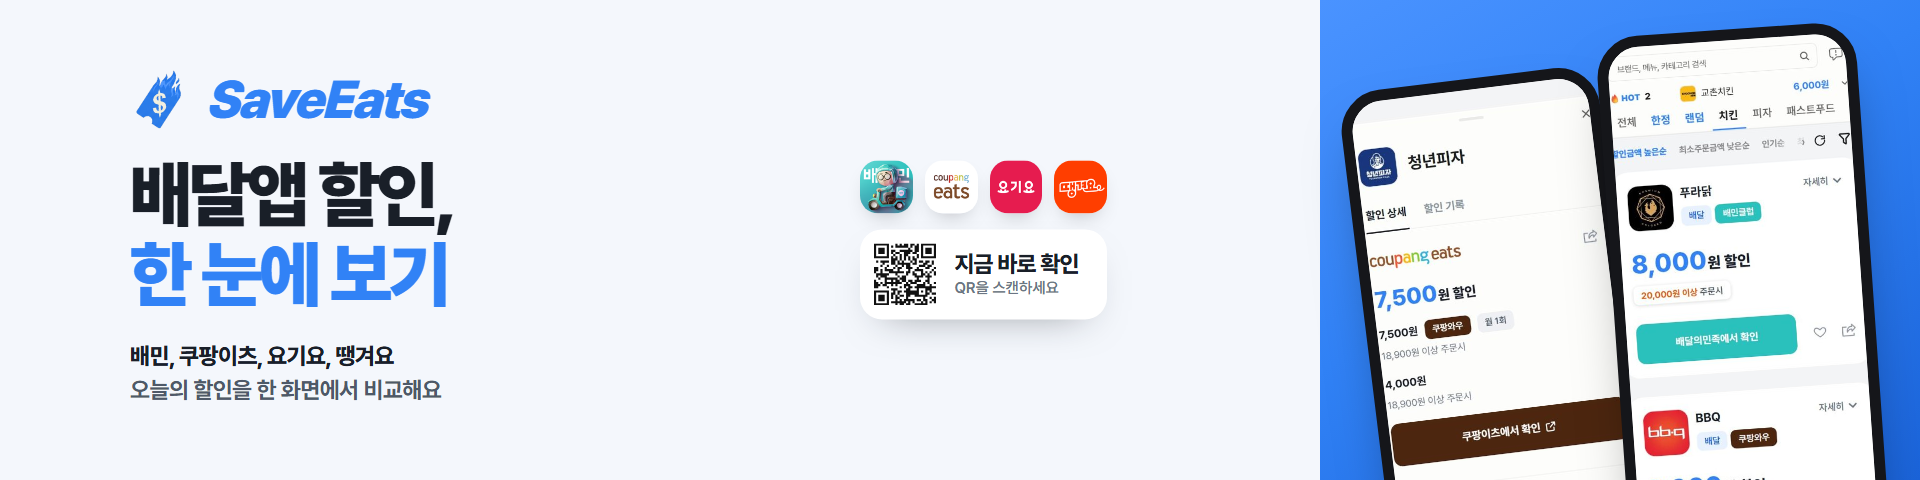
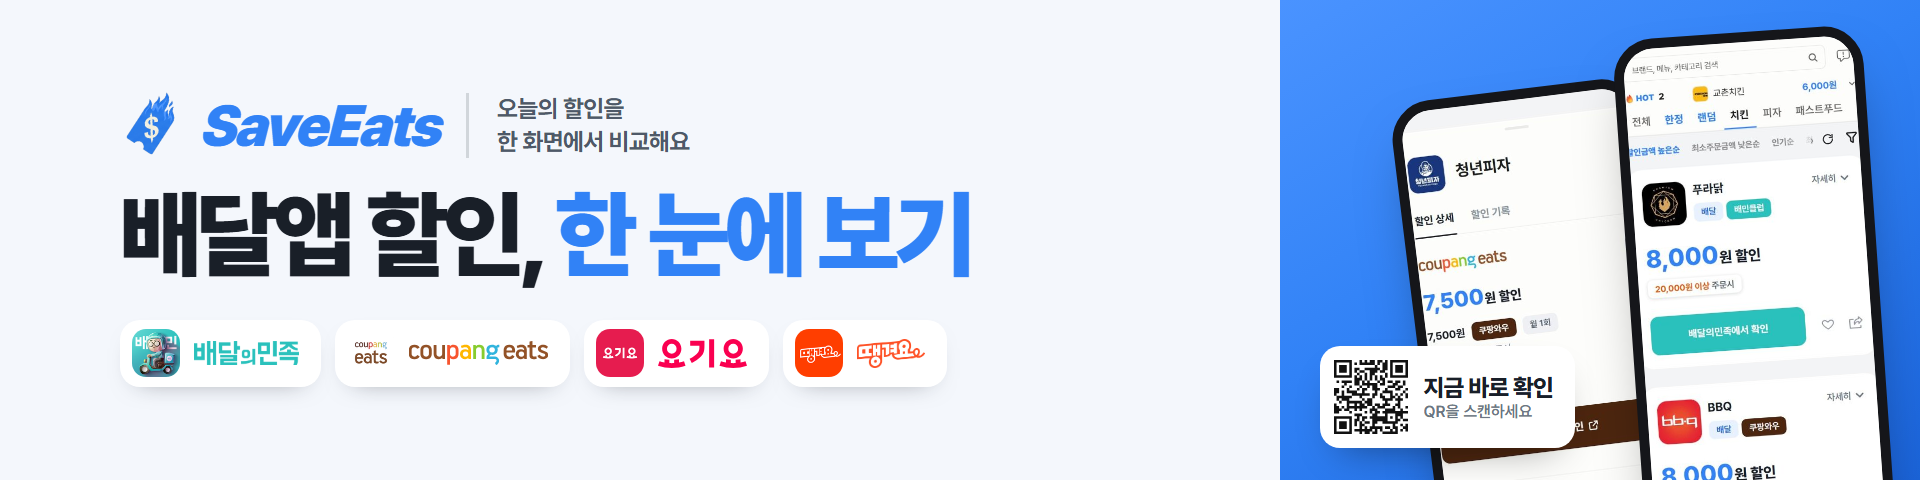
feat(web): 부스 배너 가로형 배치 정리, 앱 로고를 아이콘+서비스명 묶음으로 (#380)
한 줄 제목, 로고 옆 한 줄 설명, 앱 로고 넷(아이콘+이름, my-brands-v2 로고 재사용), QR은 파란 판 위로.

Claude-Session: https://claude.ai/code/session_01Ar5REjpbSup3DXLBGwWgCC

Changed region(s): [[0.6562, 0.0, 1.0, 1.0], [0.0625, 0.3125, 0.5938, 0.8438], [0.0625, 0.1562, 0.375, 0.3125]]

diff --git a/web/public/project/banner/wide.html b/web/public/project/banner/wide.html
@@ -7,53 +7,61 @@
   <meta name="robots" content="noindex" />
   <link rel="icon" href="/favicon-48.png" />
   <link rel="stylesheet" href="/fonts/pretendard-block.css" />
-  <!-- 부스 배너(1920x1080)를 Google Sites 머리글용 가로형으로 줄인 판. 폭 1920, 높이는 ?h=(기본 600) -->
+  <!-- 부스 배너(1920x1080)를 Google Sites 머리글용 가로형으로 줄인 판. 폭 1920, 높이는 ?h=(기본 600).
+       왼쪽: 로고, 한 줄 제목, 앱 로고(아이콘+이름) 넷 / 오른쪽 파란 판: QR과 폰 두 대 -->
   <style>
     * { box-sizing: border-box; }
     html, body { margin: 0; height: 100%; background: #0f1115; }
     body { display: grid; place-items: center; overflow: hidden; font-family: 'Pretendard Variable', Pretendard, -apple-system, sans-serif; word-break: keep-all; -webkit-font-smoothing: antialiased; }
-    .b { --h: 600px; position: relative; width: 1920px; height: var(--h); flex: none; overflow: hidden; background: #f4f7fc; color: #191f28; transform-origin: center; }
-    .b__left { position: absolute; left: 130px; top: 0; bottom: 0; width: 700px; display: flex; flex-direction: column; justify-content: center; }
-    .logo { display: flex; align-items: center; gap: 18px; margin: 0; }
-    .logo img { width: calc(var(--h) * .12); height: auto; transform: rotate(-12deg); }
-    .logo span { font-size: calc(var(--h) * .11); font-weight: 900; font-style: italic; letter-spacing: -.04em; color: #3182f6; line-height: 1; }
-    h1 { margin: calc(var(--h) * .05) 0 0; font-size: calc(var(--h) * .15); font-weight: 900; line-height: 1.12; letter-spacing: -.05em; }
+    .b { --h: 600px; --u: 1; position: relative; width: 1920px; height: var(--h); flex: none; overflow: hidden; background: #f4f7fc; color: #191f28; transform-origin: center; }
+    .b__left { position: absolute; left: 120px; right: 700px; top: 0; bottom: 0; display: flex; flex-direction: column; justify-content: center; }
+    .top { display: flex; align-items: center; gap: 28px; }
+    .logo { display: flex; align-items: center; gap: 16px; margin: 0; }
+    .logo img { width: calc(78px * var(--u)); height: auto; transform: rotate(-12deg); }
+    .logo span { font-size: calc(72px * var(--u)); font-weight: 900; font-style: italic; letter-spacing: -.04em; color: #3182f6; line-height: 1; }
+    .sub { margin: 0; padding-left: 28px; border-left: 3px solid #d1d6db; font-size: calc(30px * var(--u)); font-weight: 700; color: #4e5968; letter-spacing: -.02em; line-height: 1.35; }
+    h1 { margin: calc(34px * var(--u)) 0 0; font-size: calc(118px * var(--u)); font-weight: 900; line-height: 1.05; letter-spacing: -.05em; white-space: nowrap; }
     h1 em { font-style: normal; color: #3182f6; }
-    .sub { margin: calc(var(--h) * .05) 0 0; font-size: calc(var(--h) * .048); font-weight: 700; line-height: 1.5; color: #4e5968; letter-spacing: -.02em; }
-    .sub b { color: #191f28; font-weight: 800; }
-    .side { position: absolute; left: 860px; top: 50%; transform: translateY(-50%); display: grid; gap: 16px; }
-    .apps { display: flex; gap: 12px; }
-    .apps img { width: calc(var(--h) * .11); height: auto; border-radius: 18px; box-shadow: 0 10px 24px -14px rgba(0,0,0,.45); }
-    .qr { display: flex; align-items: center; gap: 18px; padding: 14px 26px 14px 14px; border-radius: 22px; background: #fff; box-shadow: 0 16px 40px -24px rgba(25,31,40,.5); }
-    .qr img { width: calc(var(--h) * .13); height: auto; }
-    .qr b { display: block; font-size: calc(var(--h) * .048); font-weight: 800; letter-spacing: -.03em; }
-    .qr span { font-size: calc(var(--h) * .032); font-weight: 600; color: #6b7684; }
-    .b__right { position: absolute; top: 0; right: 0; bottom: 0; width: 600px; background: linear-gradient(150deg, #4a93ff 0%, #3182f6 45%, #1b64da 100%); }
-    .ph { position: absolute; width: 260px; height: 560px; border: 11px solid #15161a; border-radius: 42px; background: #fff; overflow: hidden; box-shadow: 0 30px 60px -24px rgba(0,0,0,.5); }
+    .apps { display: flex; gap: 14px; margin-top: calc(44px * var(--u)); }
+    .app { display: flex; align-items: center; gap: 14px; height: calc(84px * var(--u)); padding: 0 22px 0 12px; border-radius: 20px; background: #fff; box-shadow: 0 10px 26px -18px rgba(25,31,40,.55); }
+    .app .ic { height: calc(60px * var(--u)); width: auto; border-radius: 14px; }
+    .app .wm { height: calc(30px * var(--u)); width: auto; }
+    .app .wm.tall { height: calc(36px * var(--u)); }
+    .b__right { position: absolute; top: 0; right: 0; bottom: 0; width: 640px; background: linear-gradient(150deg, #4a93ff 0%, #3182f6 45%, #1b64da 100%); }
+    .ph { position: absolute; width: 250px; height: 540px; border: 10px solid #15161a; border-radius: 40px; background: #fff; overflow: hidden; box-shadow: 0 30px 60px -24px rgba(0,0,0,.5); }
     .ph img { display: block; width: 100%; height: 100%; object-fit: cover; object-position: top; }
-    .ph1 { left: 50px; top: calc(var(--h) * .16); transform: rotate(-7deg); }
-    .ph2 { right: 46px; top: calc(var(--h) * .06); transform: rotate(-4deg); }
+    .ph1 { right: 250px; top: calc(110px * var(--u)); transform: rotate(-7deg); }
+    .ph2 { right: 40px; top: calc(40px * var(--u)); transform: rotate(-4deg); }
+    .qr { position: absolute; left: 40px; bottom: calc(40px * var(--u)); z-index: 2; display: flex; align-items: center; gap: 16px; padding: 14px 22px 14px 14px; border-radius: 20px; background: #fff; box-shadow: 0 18px 40px -20px rgba(0,0,0,.45); }
+    .qr img { width: calc(92px * var(--u)); height: auto; }
+    .qr b { display: block; font-size: calc(30px * var(--u)); font-weight: 800; letter-spacing: -.03em; }
+    .qr span { font-size: calc(20px * var(--u)); font-weight: 600; color: #6b7684; }
   </style>
 </head>
 <body>
   <div class="b" id="b">
     <div class="b__left">
-      <p class="logo"><img src="/favicon-192.png" alt="" /><span>SaveEats</span></p>
-      <h1>배달앱 할인,<br /><em>한 눈에 보기</em></h1>
-      <p class="sub"><b>배민, 쿠팡이츠, 요기요, 땡겨요</b><br />오늘의 할인을 한 화면에서 비교해요</p>
-    </div>
-    <div class="side">
-      <div class="apps"><img src="/platform-icons/baemin.png" alt="배달의민족" /><img src="/platform-icons/coupangeats.png" alt="쿠팡이츠" /><img src="/platform-icons/yogiyo.png" alt="요기요" /><img src="/platform-icons/ddangyo.png" alt="땡겨요" /></div>
-      <div class="qr"><img src="/project/qr.svg" alt="서비스 주소 QR" /><div><b>지금 바로 확인</b><span>QR을 스캔하세요</span></div></div>
+      <div class="top">
+        <p class="logo"><img src="/favicon-192.png" alt="" /><span>SaveEats</span></p>
+        <p class="sub">오늘의 할인을<br />한 화면에서 비교해요</p>
+      </div>
+      <h1>배달앱 할인, <em>한 눈에 보기</em></h1>
+      <div class="apps">
+        <span class="app"><img class="ic" src="/platform-icons/baemin.png" alt="" /><img class="wm" src="word-baemin.png" alt="배달의민족" /></span>
+        <span class="app"><img class="ic" src="/platform-icons/coupangeats.png" alt="" /><img class="wm" src="word-coupangeats.svg" alt="쿠팡이츠" /></span>
+        <span class="app"><img class="ic" src="/platform-icons/yogiyo.png" alt="" /><img class="wm tall" src="word-yogiyo.svg" alt="요기요" /></span>
+        <span class="app"><img class="ic" src="/platform-icons/ddangyo.png" alt="" /><img class="wm tall" src="word-ddangyo.png" alt="땡겨요" /></span>
+      </div>
     </div>
     <div class="b__right">
       <div class="ph ph1"><img src="/about/sheet.jpg" alt="" /></div>
       <div class="ph ph2"><img src="/about/hero.jpg" alt="" /></div>
+      <div class="qr"><img src="/project/qr.svg" alt="서비스 주소 QR" /><div><b>지금 바로 확인</b><span>QR을 스캔하세요</span></div></div>
     </div>
   </div>
   <script>
     var b = document.getElementById('b'), h = +(new URLSearchParams(location.search).get('h') || 600)
-    b.style.setProperty('--h', h + 'px')
+    b.style.setProperty('--h', h + 'px'); b.style.setProperty('--u', h / 600)
     var fit = function () { var s = Math.min(innerWidth / 1920, innerHeight / h); b.style.transform = s === 1 ? '' : 'scale(' + s + ')' }
     fit(); addEventListener('resize', fit)
   </script>
